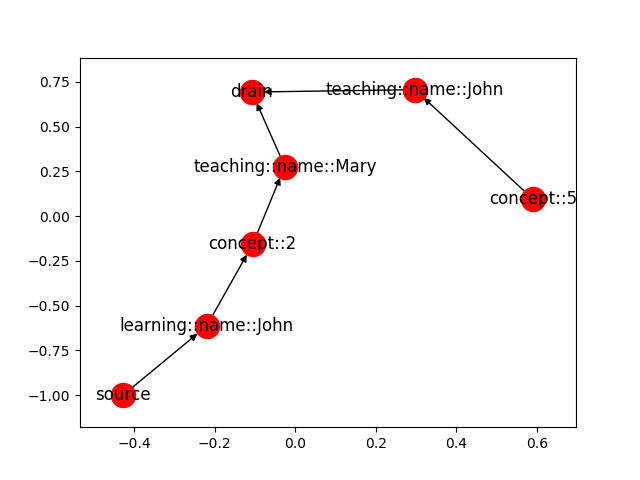
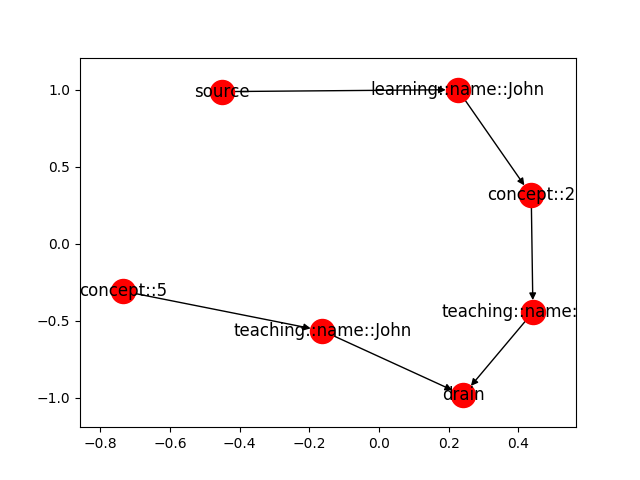
bug: one person can teach more than one person

diff --git a/match.py b/match.py
@@ -26,8 +26,8 @@ for person in data.keys():
 
         elif assignment == "T":
             G.add_edge(
-                "concept::" + concept, "teaching::" + person, capacity=1)
-            G.add_edge("teaching::" + person, "drain", capacity=1)
+                "concept::" + concept, "teaching::" + person, capacity=5)
+            G.add_edge("teaching::" + person, "drain", capacity=5)
 
 nx.draw_networkx(G)
 plt.savefig("pokus.png")
